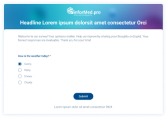
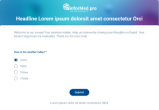
survey template chages

diff --git a/src/Components/assets/css/survey.scss b/src/Components/assets/css/survey.scss
@@ -153,6 +153,7 @@ span {
 
                                 &>img {
                                     width: 100%;
+                                    max-height: 102px;
                                 }
                             }
 
@@ -2650,7 +2651,11 @@ span {
                         padding-left: 12px;
                         margin: 0 0 5px;
                     }
+                    .split-button-dropup{
+                        &> div:nth-child(3) {
 
+                        }
+                    } 
                     &:nth-child(2n) {
                         display: flex;
                         justify-content: flex-end;
